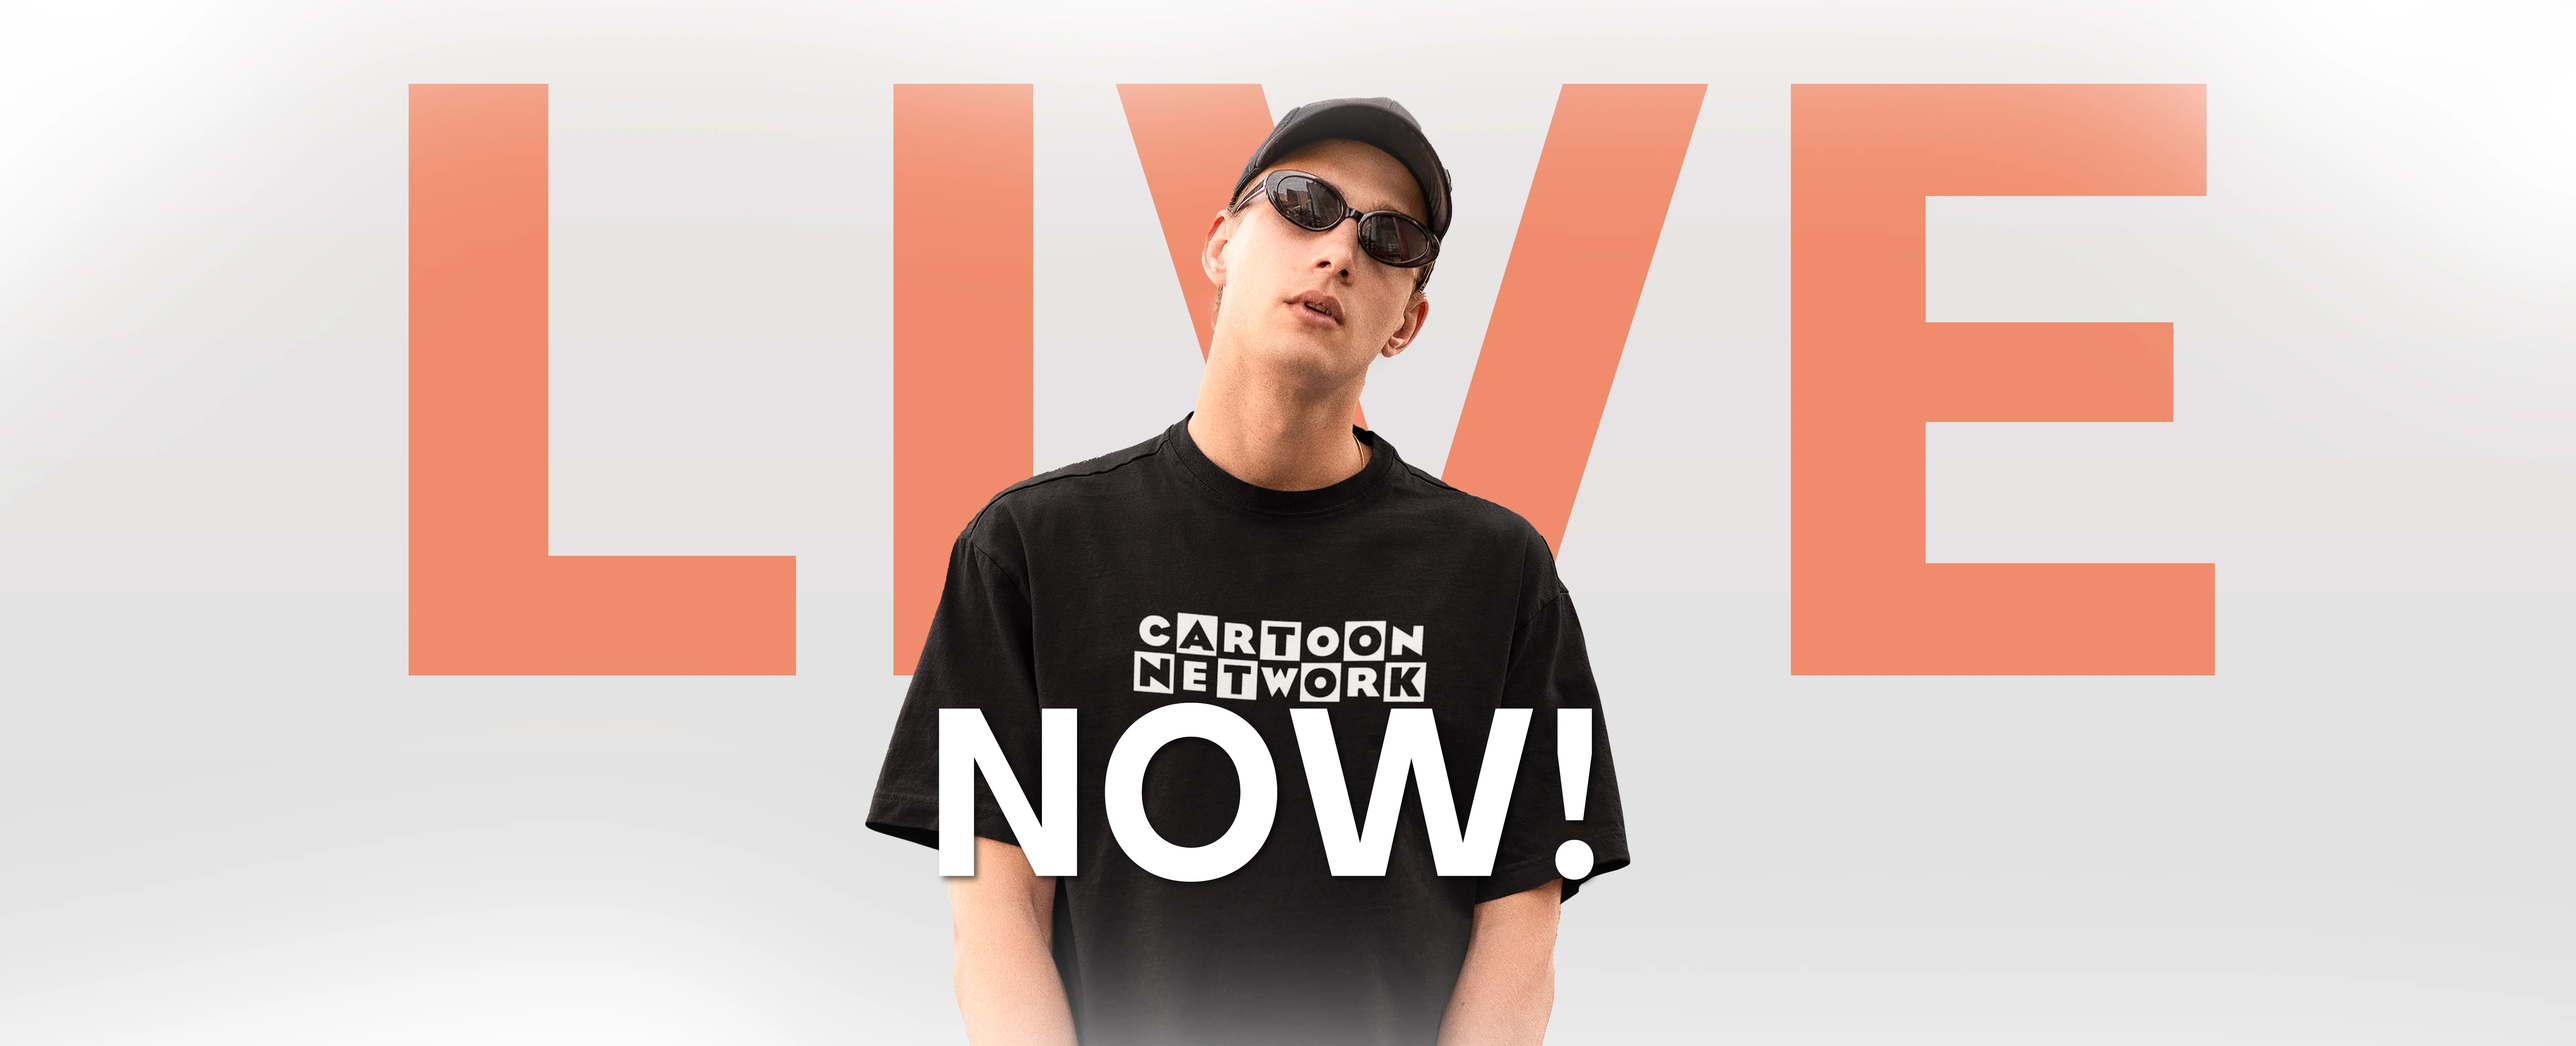
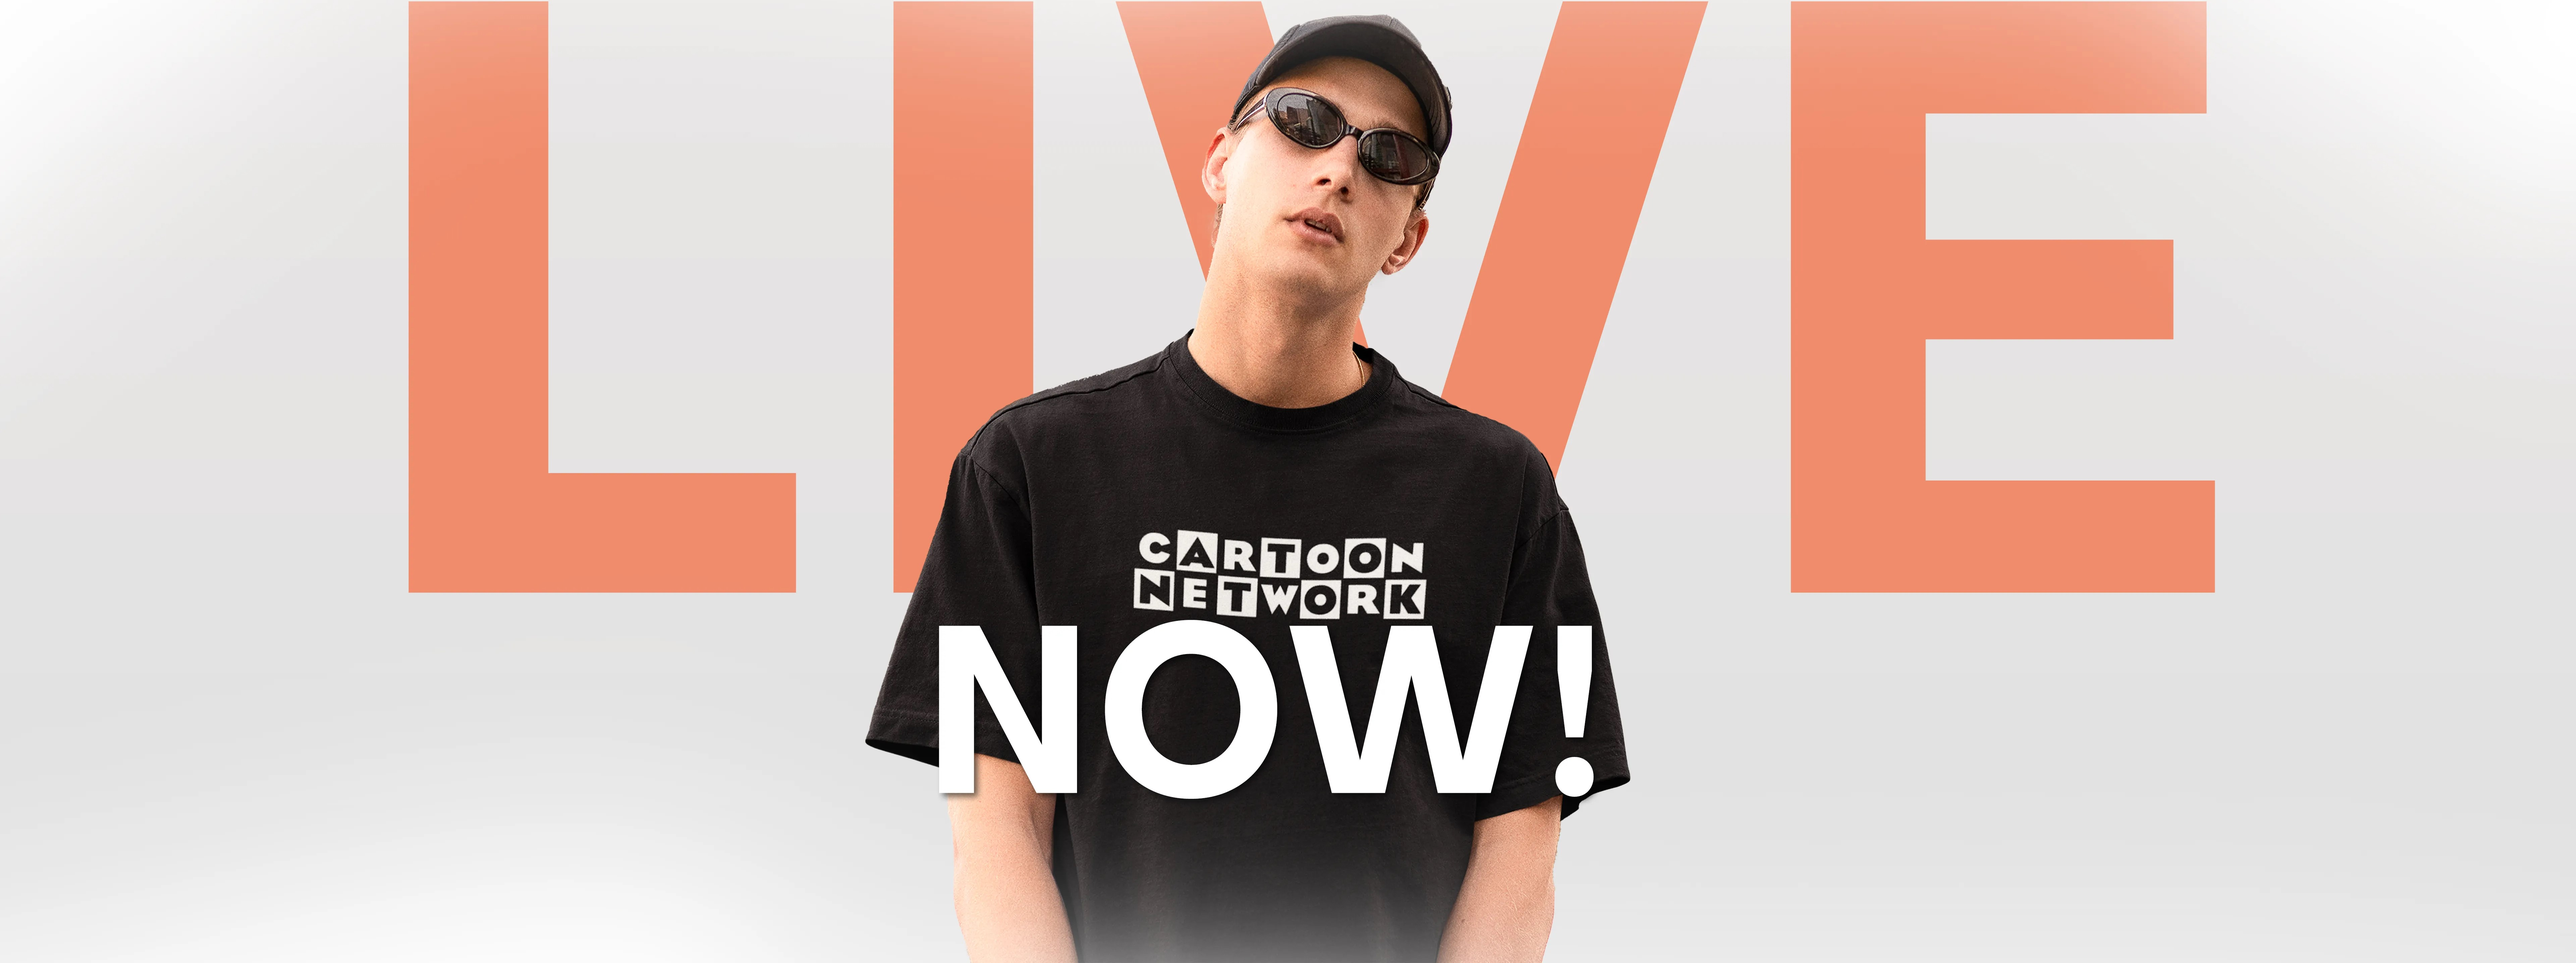
Change h

diff --git a/src/app/components/Banner.tsx b/src/app/components/Banner.tsx
@@ -10,7 +10,7 @@ import ImageSlider from './ImageSlider'
 const banners = [banner1, banner2, banner3, banner4, banner5]
 function Banner() {
     return (
-        <div style={{maxWidth: "1600px", width: "100%", height: "600px", margin: "0 auto"}}>
+        <div style={{maxWidth: "1600px", width: "100%", height: "650px", margin: "0 auto"}}>
             <ImageSlider imageUrls={banners}/>
         </div>
     )
